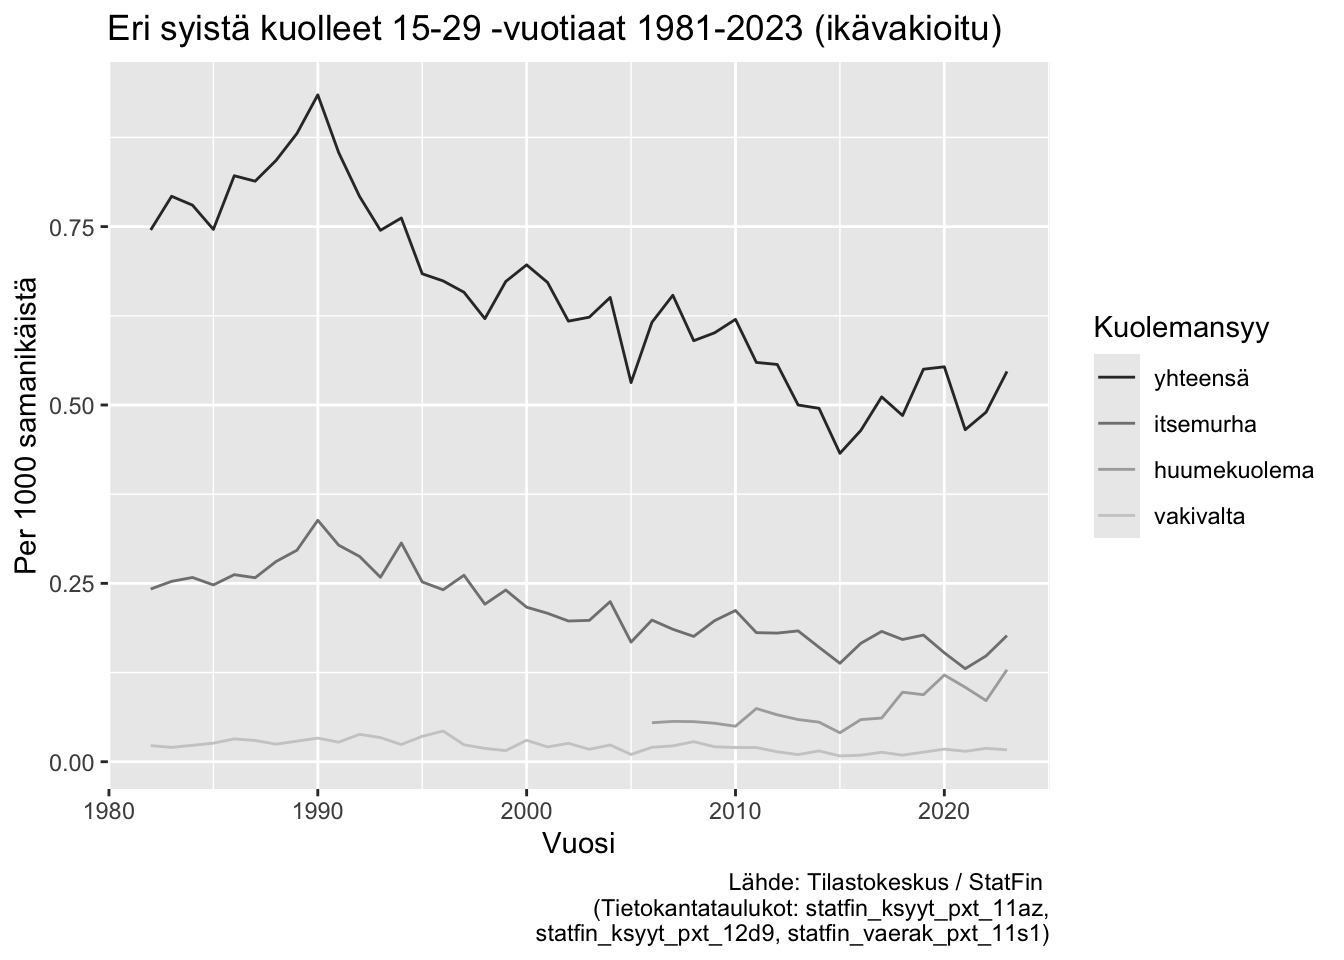
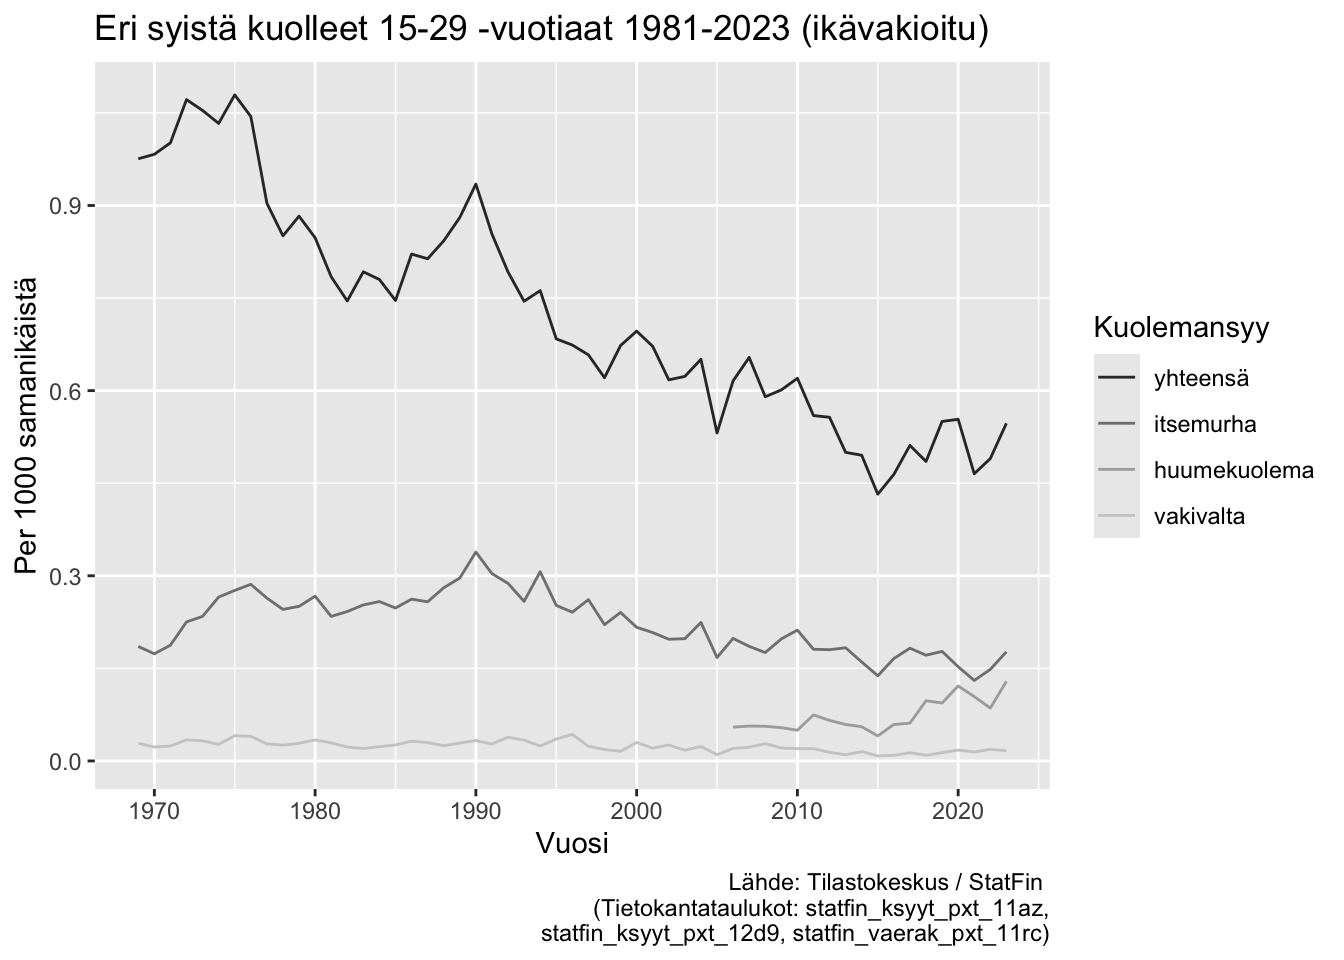
Päivitä pdf ja html

diff --git a/datan-visualisointi.html b/datan-visualisointi.html
@@ -110,6 +110,16 @@ window.Quarto = {
 <h1>0.1 Datan hakeminen</h1>
 <section id="keskiväkiluku" class="level2">
 <h2 class="anchored" data-anchor-id="keskiväkiluku">Keskiväkiluku</h2>
+<p>Tilastokeskuksen Keskiväkiluku-aineistosta saadaan tietoja vain vuoteen 1981 asti. Tästä johtuen myöhemmin tässä työkirjassa käytetään itse laskettua keskiväkilukua.</p>
+<section id="keskiväkiluvun-laskeminen-itse" class="level3">
+<h3 class="anchored" data-anchor-id="keskiväkiluvun-laskeminen-itse">Keskiväkiluvun laskeminen itse</h3>
+<p><a href="https://stat.fi/meta/kas/keskivakiluku.html">Tilastokeskuksen määritelmän</a> mukaan:</p>
+<blockquote class="blockquote">
+<p>Tietyn vuoden keskiväkiluku on kahden peräkkäisen vuoden väkilukujen keskiarvo. Kun tilastovuodelle lasketaan jotakin ilmiöta kuvaava suhdeluku, yleensä ko. ilmiön tapahtumien määrä suhteutetaan juuri tapahtumalle alttiina olevan väestön tai väestön osan keskiväkilukuun. Nämä väestöllisiä ilmiöitä kuvaavat luvut ilmoitetaan yleensä promilleina eli em. jakolaskun tulos kerrotaan tuhannella.</p>
+</blockquote>
+<p>Eli vuoden 2024 keskiväkiluku saadaan laskemalla yhteen vuoden 2024 väkiluku ja vuoden 2023 väkiluku ja jakamalla tämä kahdella.</p>
+<p>Muodostetaan 15-29 -vuotiaiden ryhmä. Hyödynnetään <code>dplyr</code>-paketista löytyviä <a href="https://dplyr.tidyverse.org/articles/window-functions.html">window function</a> -funktioita eli lag-funktiota, saadaan valittua jokaiselle vuodelle sitä seuraavan vuoden luku (taulukko on järjestetty nousevaan järjestykseen eli ensimmäisenä on vanhin vuosi ja viimeisenä uusin vuosi, 2024).</p>
+</section>
 </section>
 <section id="filtteröinti" class="level2">
 <h2 class="anchored" data-anchor-id="filtteröinti">Filtteröinti</h2>
@@ -311,6 +321,7 @@ ASDR = \frac{\text{25-29 vuotiaana kuolleet vuonna A}}{\text{25-29-vuotiaiden ke
 </blockquote>
 <p>Kategorisoidaan ensin 1 ikävuoden välein otetut keskiväkiluvut aiemmin käytettyihin kategorioihin 15 - 19, 20 - 24 ja 25-29.</p>
 <p>Lasketaan sitten kuolleiden määrän ja keskiväkiluvun suhteesta saatava ASDR.</p>
+<p>Ongelmallista ylemmässä on se, että keskiväkiluvut ulottuvat vain vuoteen 1981 asti. Käytetään siis itse laskettua keskiväkilukua.</p>
 </section>
 <section id="visualisointi-3" class="level3">
 <h3 class="anchored" data-anchor-id="visualisointi-3">Visualisointi</h3>
@@ -368,6 +379,14 @@ Kindly cite the 'pxweb' R package as follows:
   Dirty Data_. doi:10.32614/CRAN.package.janitor
   &lt;https://doi.org/10.32614/CRAN.package.janitor&gt;, R package version
   2.2.1, &lt;https://CRAN.R-project.org/package=janitor&gt;.</code></pre>
+</div>
+<div class="cell-output cell-output-stdout">
+<pre><code>To cite package 'patchwork' in publications use:
+
+  Pedersen T (2025). _patchwork: The Composer of Plots_.
+  doi:10.32614/CRAN.package.patchwork
+  &lt;https://doi.org/10.32614/CRAN.package.patchwork&gt;, R package version
+  1.3.2, &lt;https://CRAN.R-project.org/package=patchwork&gt;.</code></pre>
 </div>
 </div>
 </section>
